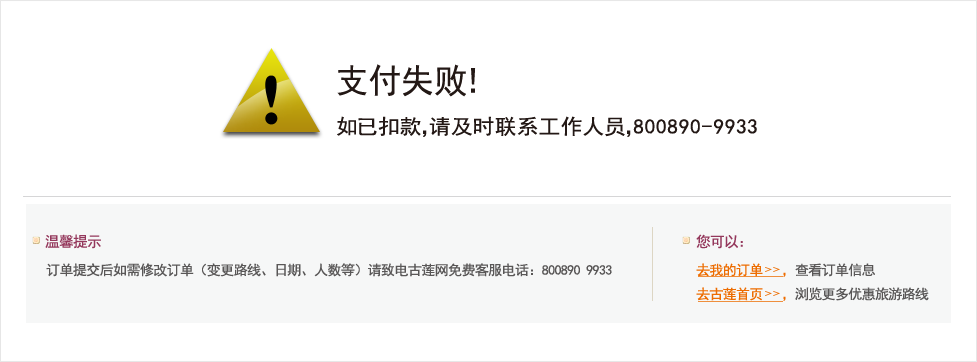
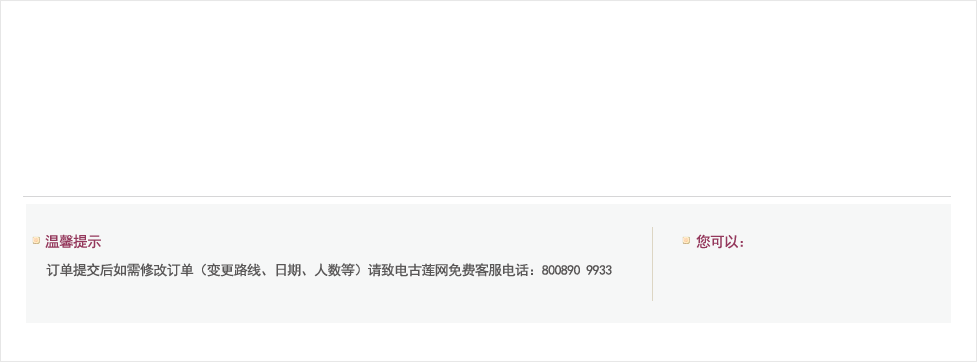
Signed-off-by: unknown <Kaiser@Kaiser-PC.(none)>

Changed region(s): [[0.2149, 0.1519, 0.7984, 0.395], [0.7062, 0.7293, 0.9519, 0.8508], [0.3378, 0.1823, 0.4913, 0.2735]]

diff --git a/demand/styles/success.css b/demand/styles/success.css
@@ -2,7 +2,14 @@
 /* CSS Document */
 
 .success_box			{ width:980px; margin:0 auto;}
-.success_yuding							{ width:980px; height:362px; margin:60px 0 90px 0; display:inline; overflow:hidden; float:left;}
+.success_yuding							{ width:980px; height:362px; margin:60px 0 90px 0; display:inline; background:url(../images/fail_yuding_bg.png) no-repeat; text-align:center; overflow:hidden; float:left;}
+.success_yuding dl						{ margin:38px 0 0 0; padding:10px 0 0 107px; background:url(../images/fail_yuding_pic.png) no-repeat; display:inline-block; _display:inline; text-align:left; zoom:1;}
+.success_yuding dl dd					{ font-family:"微软雅黑"; font-size:34px; color:#221815; line-height:38px;}
+.success_yuding dl dt					{ font-family:"微软雅黑"; font-size:20px; color:#221815; _line-height:58px;}
+.success_yuding em						{ width:250px; padding:132px 0 0 695px; _padding:115px 0 0 695px; text-align:left; font-family:"黑体"; font-size:14px; color:#595757; line-height:22px; float:left;}
+.success_yuding em b					{ font-family:"黑体"; font-size:14px; color:#ed6c00;}
+.success_yuding em a					{ font-family:"黑体"; font-size:14px; color:#ed6c00; text-decoration:underline;}
+.success_yuding em a:hover				{ text-decoration:none;}
 
 .success_register_box	{ width:980px; margin:0 auto;}
 .success_register						{ width:847px; margin:10px 0 9px 0; display:inline; padding:0 0 0 131px; background:#FFF; border:1px solid #e6e6e6; overflow:hidden; float:left;}
